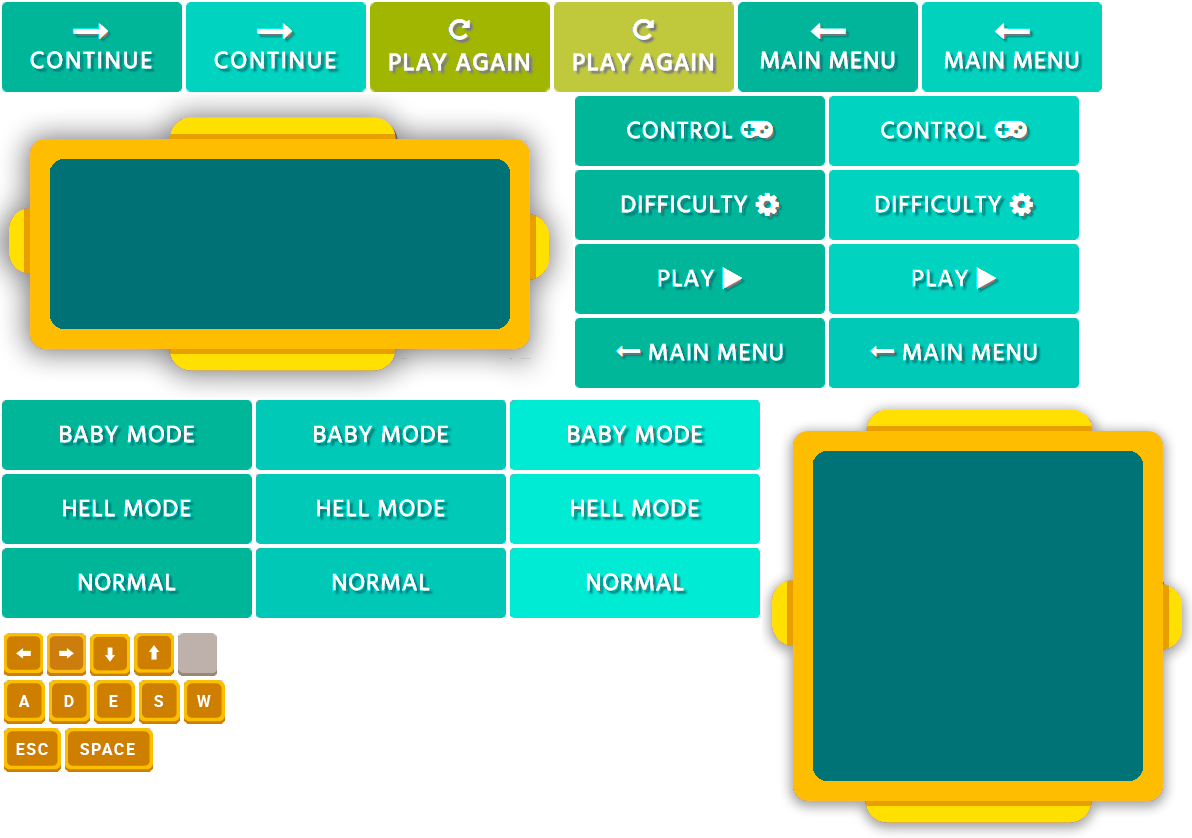
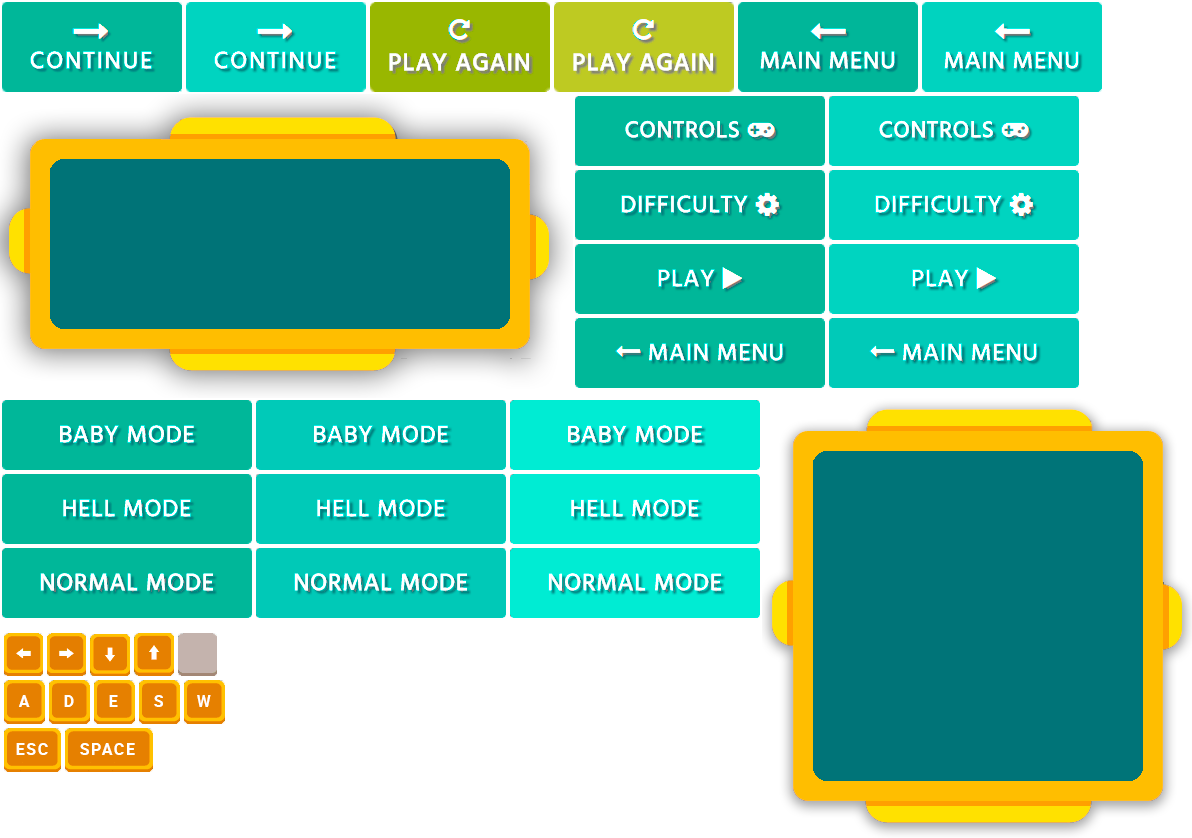
canvas-game/fix: fix menu buttons name

diff --git a/js/index.js b/js/index.js
@@ -947,10 +947,10 @@ function drawHeroStatus() {
     ctx.fillStyle = '#fff'
     ctx.stroke();
     ctx.drawImage(otherImg, 72, 2, 93, 93, 33, 31, 80, 80); //hero icon
-    ctx.drawImage(otherImg, 0, 14, 48, 12, 130, 85, 48, 12); //kunai icon
-    ctx.font = 'bold 18px serif';
+    ctx.drawImage(otherImg, 0, 14, 48, 12, 130, 82, 60, 15); //kunai icon
+    ctx.font = 'bold 24px serif';
     ctx.fillStyle = '#111';
-    ctx.fillText(`x ${hero.kunaiCount}`, 185, 96); // kunai count
+    ctx.fillText(`x ${hero.kunaiCount}`, 195, 95); // kunai count
     for (let i = 0; i <= hero.maxHealth - 1; i++) {
         if (i < hero.health) {
             ctx.drawImage(otherImg, 3, 45, 38, 38, 130 + (i * 35), 40, 25, 25); // health
@@ -1167,7 +1167,7 @@ let mainMenuButtons = {
 let controlMenuButtons = {
     mainMenuControl: {
         hovered: false,
-        positionX:547,
+        positionX: 555,
         positionY: 450,
         positionXOnSprite: 575,
         positionYOnSprite: 318,
@@ -1216,7 +1216,7 @@ function drawControlMenu() {
     ctx.drawImage(pauseMenu, 761, 400, 430, 440, 375, 60, 530, 530);
     ctx.font = 'bold 32px serif';
     ctx.fillStyle = '#eeeeee';
-    ctx.fillText('Control:', 585, 160);
+    ctx.fillText('Controls:', 580, 160);
 
     ctx.drawImage(control, 0, 0, 450, 330, 470, 170,  360, 264); 
     drawButton(controlMenuButtons.mainMenuControl, controlMenuButtons.settings);
@@ -1238,15 +1238,14 @@ function drawEndMenu() {
     ctx.font = 'bold 32px serif';
     ctx.fillStyle = '#eeeeee';
     if (game.isWin) {
-        ctx.fillText('You Win!', 573, 235);
+        ctx.fillText('You Win!', 483, 235);
+        ctx.font = 'bold 28px serif';
+        ctx.fillText(`Score: ${game.score}!`, 625, 235);
     } else {
         ctx.fillText('You Lose! Try Again!', 490, 235); 
     }
     drawButton(pauseMenuButtons.exit, pauseMenuButtons.settings)
     drawButton(pauseMenuButtons.replayEnd, pauseMenuButtons.settings)
-    //ctx.font = 'bold 26px serif';
-    //ctx.fillText('Score:', 515, 275); // kunai count
-    //ctx.fillText(game.score, 515, 310); // kunai count
 };
 
 function changeBgPosition() {
@@ -1416,10 +1415,10 @@ function startGame() {
             checkAllStatuses();
             startAddZombieTimer(2000);
             game.isStartDelayEnded = true;
-            setHeroKeydownListeners();
-            setHeroKeyupListeners();
             zombieBoss.positionX = zombieBoss.startPositionX;
             zombieBoss.maxXPosition = zombieBoss.startPositionX;
+            setHeroKeydownListeners();
+            setHeroKeyupListeners();
             clearInterval(game.startDelay);
         }
     }, 1000); 
@@ -1823,7 +1822,6 @@ let startTimer = setInterval(function() {
         clearInterval(startTimer)
         mainMenuEngine();
         addMenuListeners(makeMainMenuHovered, mainMenuClickCallback);
-
     };
 }, 50);
 

diff --git a/css/game.css b/css/game.css
@@ -7,11 +7,24 @@
   }
 }
 
+@font-face {
+    font-family: "Futurot";
+        url("../fonts/Futurot.ttf") format("truetype")
+    font-weight: normal;
+    font-style: normal;
+}
+
 
 html {
 	height: 100%;
+	font-family: 'Future Rot, Futurot';
 }
-
+p {
+	color: white;
+	font-size: 50px;
+	font-weight: bold;
+	position: absolute;
+}
 body {
 	position: relative;
   	display: flex;

diff --git a/index.html b/index.html
@@ -6,7 +6,7 @@
 </head>
 <body>
   <canvas id="canvas" width="1280" height="640"></canvas>
-  <div id="loading"></div>	
+  <div id="loading"></div>
   <script src="./js/index.js"></script>
 </body>
 </html> 
